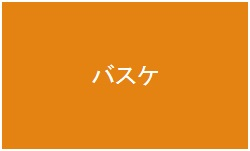
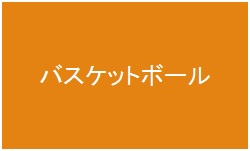
画像追加・cssでの画面編集

Changed region(s): [[0.14, 0.4238, 0.84, 0.5828]]

diff --git a/src/public/css/style.css b/src/public/css/style.css
@@ -1,10 +1,20 @@
 
 @charset "utf-8";
 
-h2 {
-FONT-size:5;
-color:#FFFFFF;
+
+
+h1 {
+  FONT-size:300%;
+  color:#FFFFFF;
+  text-align: center;
 }
+
+h1 {
+	padding: 1em;
+	border: 3px solid #ccc;
+	border-radius: 3em .7em 2em .7em/.7em 2em .7em 3em;
+}
+
 
 .dropmenu{
       *zoom: 1;
@@ -54,7 +64,7 @@ color:#FFFFFF;
         padding: 13px 15px;
         border-top: 1px solid #7c8c0e;
         background: #333333;
-        text-align: left;
+        text-align: center;
   }
   .dropmenu li:hover > a{
         background: #008080;
@@ -73,4 +83,3 @@ color:#FFFFFF;
          overflow: visible;
         height: 38px;
   }
-  
